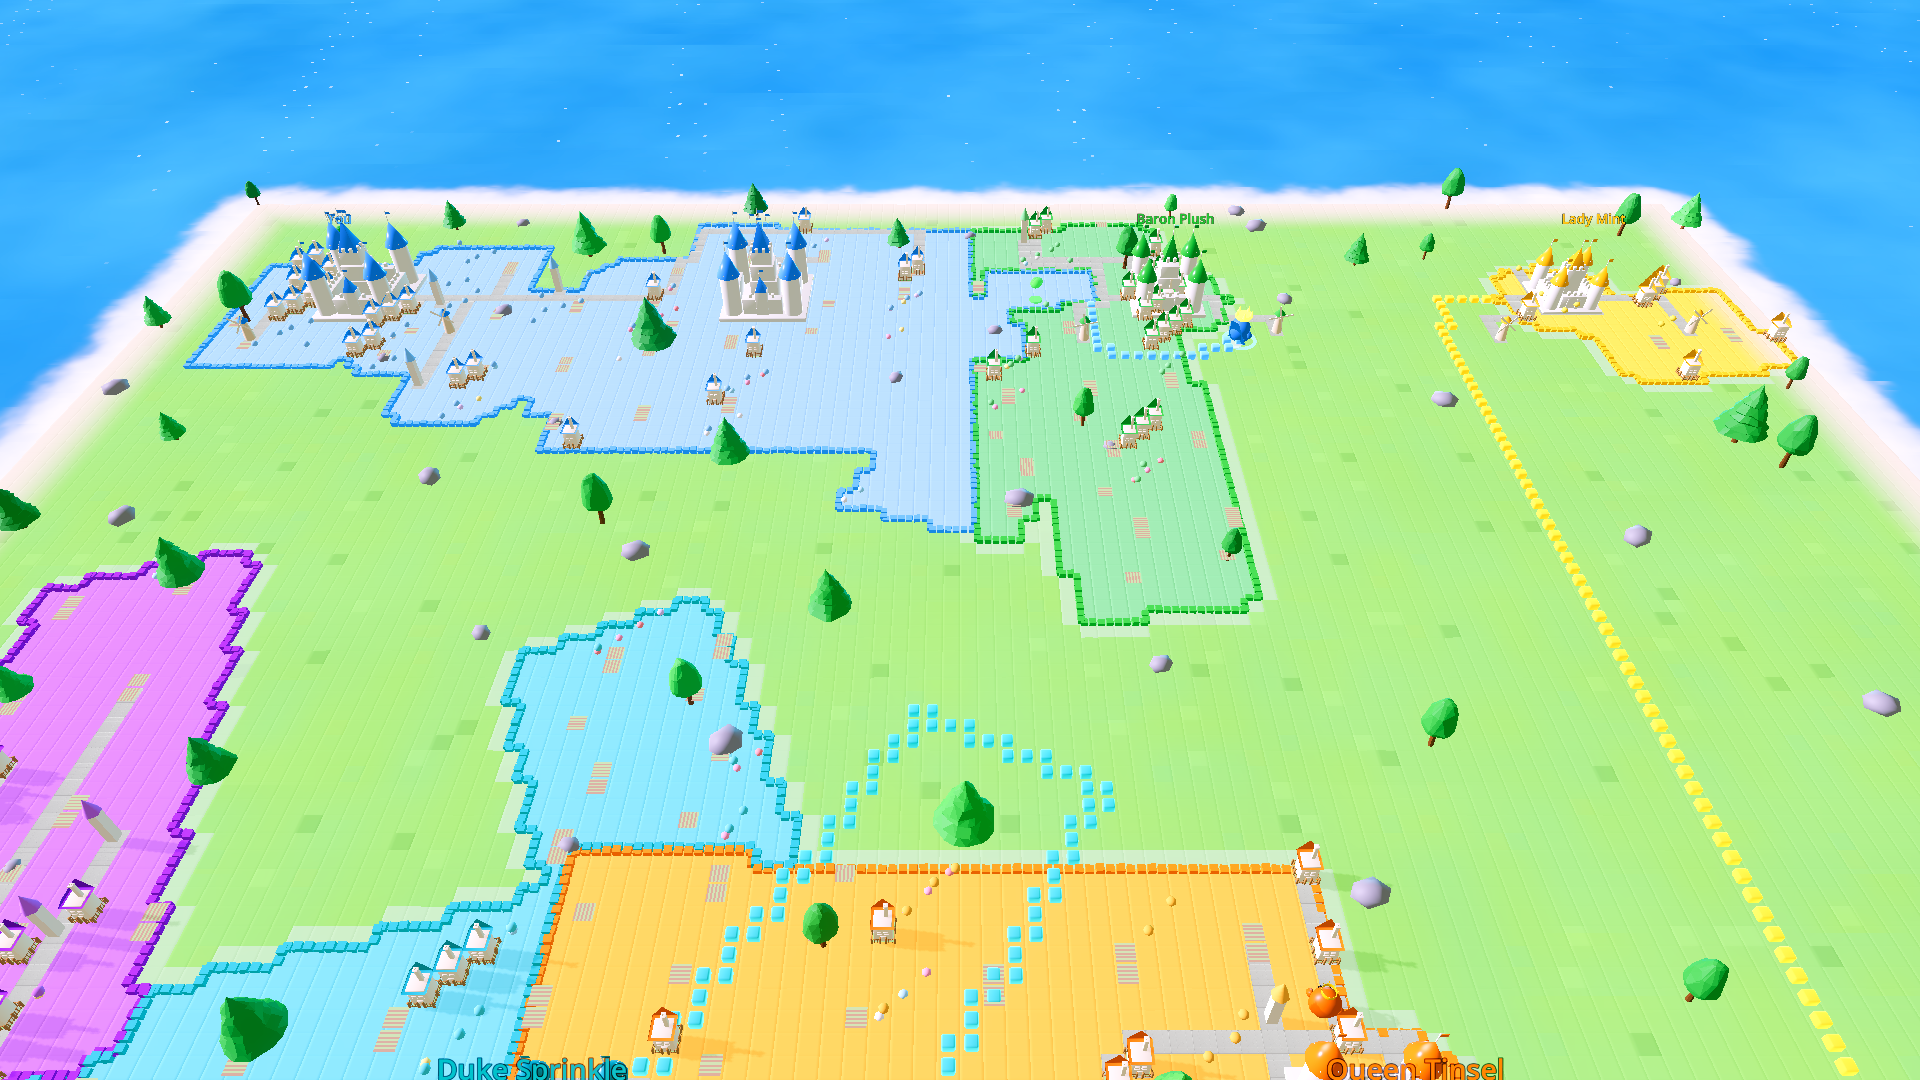
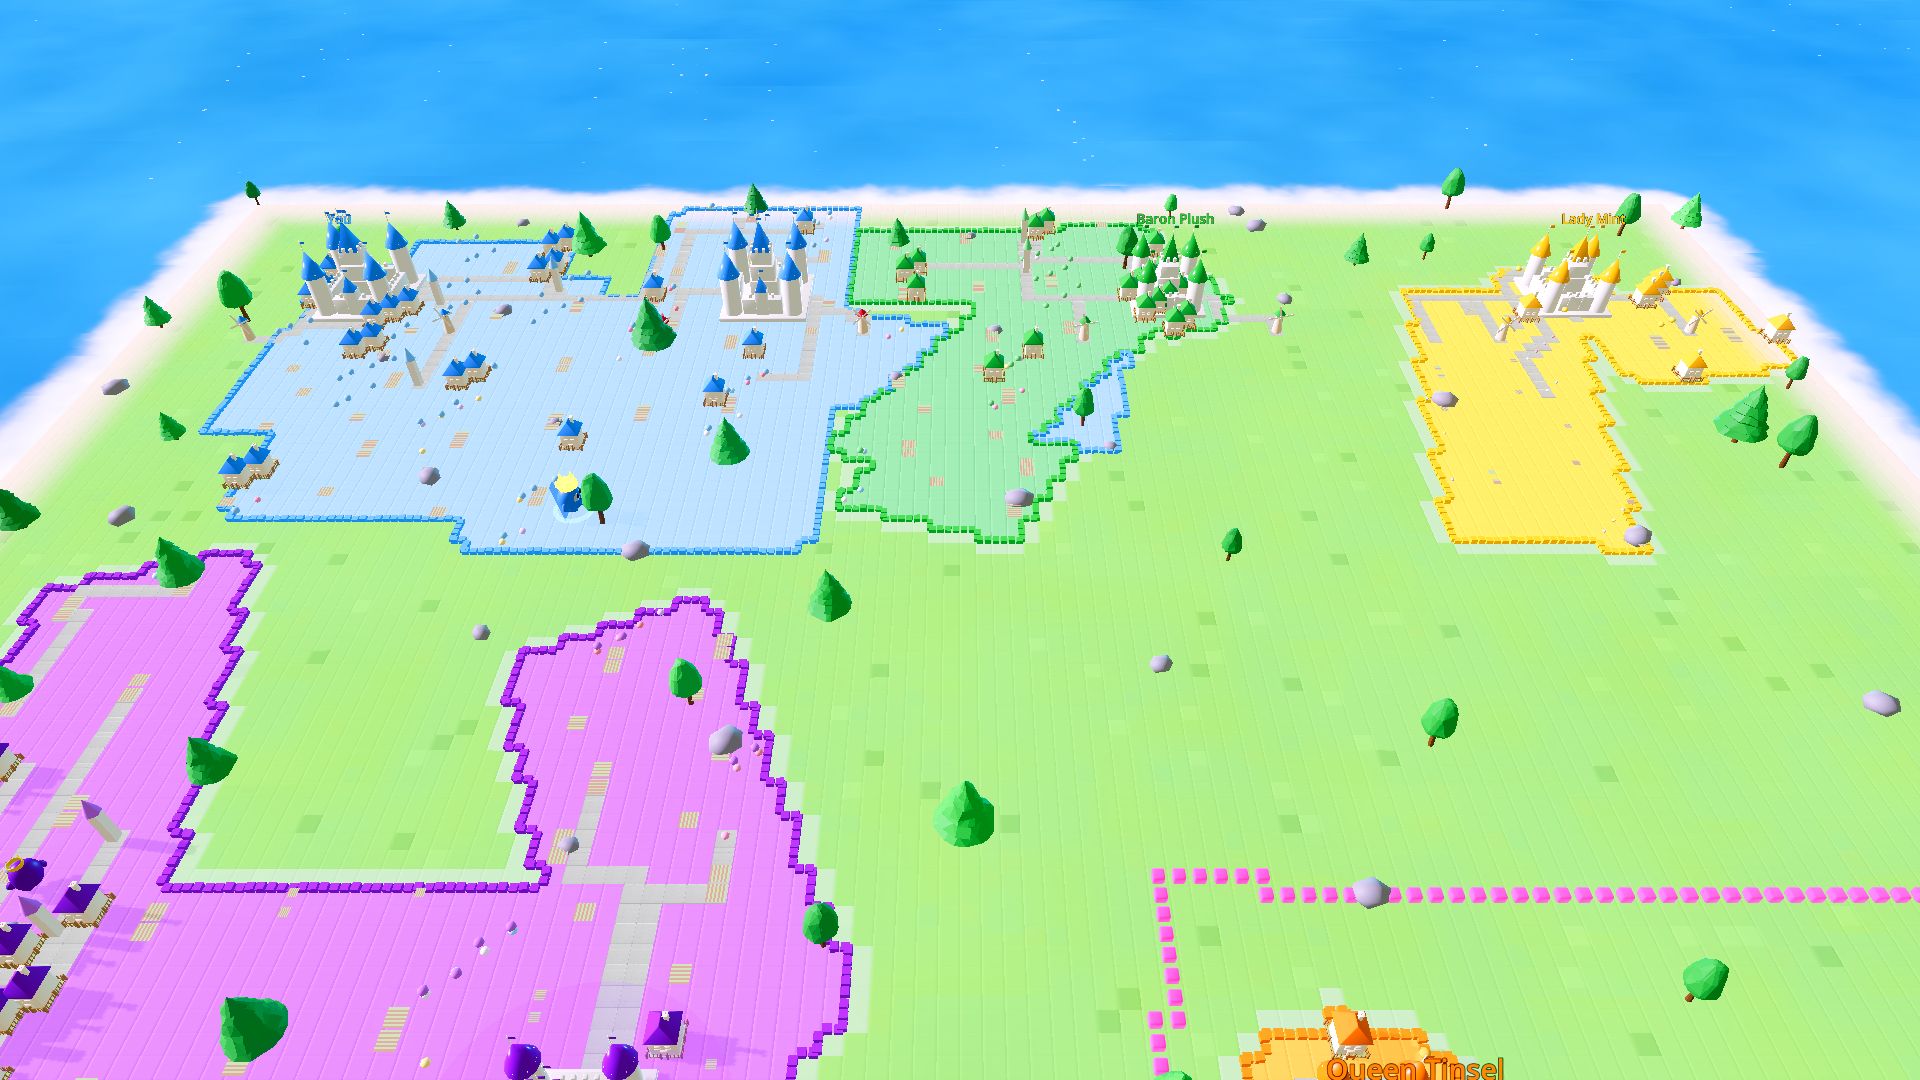
houses: 40% wider footprint, hip roof, bigger garden
Scaled house body 40% wider/longer (BW 0.252→0.353); wall height unchanged.

Replaced the triangular gable prism with a custom 4-sided hip roof built via
bmesh: all four faces slope down to a central ridge, making the slope clearly
visible from every camera angle — especially the isometric view where gable
roofs only showed two faces.

Expanded fence half-footprint from 0.315 to 0.441 to keep an 8.8 cm garden
gap between house wall and fence. Scaled chimney position, window frame
positions, and picket count proportionally. Ridge length set at 38% of roof
depth for a pronounced hip angle on the front/back faces.

No populace.gd changes needed: BH is unchanged so all Y offsets stay valid.

diff --git a/tools/gen_house.py b/tools/gen_house.py
@@ -1,26 +1,20 @@
 # gen_house.py — detailed toy house -> assets/models/house.glb
 #
-# Matches reference image: cream walls, steep kingdom-coloured gable, chimney
-# with crown + pots, embedded window frames, door with lintel, picket fence,
-# and a green lawn slab inside the fence.
+# House is 40 % wider/longer than the previous version; wall height unchanged.
+# Roof is now a 4-sided HIP roof (all four faces slope to a central ridge) so
+# the slope is visible from every camera angle — not just the gable ends.
 #
 # FOUR named submeshes (populace.gd loads each independently):
-#   "body"  — walls + embedded window frames/sills + door + chimney  (cream)
-#   "roof"  — gable prism with wide eave overhang                    (kingdom colour)
-#   "fence" — picket fence with gate opening on front                (warm wood brown)
-#   "lawn"  — flat green slab filling the fence interior             (bright garden green)
+#   "body"  — walls + embedded window frames/sills/headers + door + chimney (cream)
+#   "roof"  — 4-sided hip roof with wide eave overhang                      (kingdom colour)
+#   "fence" — picket fence with gate opening on front                       (warm wood brown)
+#   "lawn"  — flat green slab filling the fence interior                    (bright garden green)
 #
-# Z-fighting rules applied throughout:
-#   - Every protrusion's back face is placed 5 mm INSIDE the host surface (never flush).
-#   - Roof prism sits 12 mm LOWER than the mathematical body-top so its base
-#     is embedded inside the walls — eliminates the coplanar body-top / roof-bottom.
-#   - Chimney box starts 8 cm below the body top so it has no coplanar cap face.
-#
-# Godot instance Y offsets (relative to PROP_Y = 0.07):
-#   body  : PROP_Y + 0.380       (BH = 0.380 → body spans PROP_Y…PROP_Y+0.760)
-#   roof  : PROP_Y + 0.988       (body_top(0.760) + RHH(0.240) - embed(0.012))
-#   fence : PROP_Y + 0.125       (POST_H/2 = 0.125)
-#   lawn  : PROP_Y + 0.125       (same origin; lawn is near fence bottom)
+# Godot instance Y offsets (PROP_Y = 0.07, unchanged from previous version):
+#   body  : PROP_Y + 0.380   (BH = 0.380; body spans PROP_Y…PROP_Y+0.760)
+#   roof  : PROP_Y + 0.988   (body_top 0.760 + RHH 0.240 − embed 0.012)
+#   fence : PROP_Y + 0.125   (POST_H/2 = 0.125)
+#   lawn  : PROP_Y + 0.125   (same coordinate origin as fence)
 #
 # Run:  blender --background --python tools/gen_house.py
 import bpy, sys, os
@@ -31,33 +25,36 @@ import tbk_lib as T
 T.reset()
 
 # ── dimensions ────────────────────────────────────────────────────────────────
-BW = 0.252          # body half-footprint X/Y  (50.4 cm plan)
-BH = 0.380          # body half-height         (76 cm walls — tall like the image)
-RH = 0.480          # roof full height          (steep pitch)
-RHH = RH / 2        # = 0.240
-RW = BW + 0.082     # = 0.334  roof half-width (8.2 cm eave overhang per side)
-RD = BW + 0.086     # = 0.338  roof half-depth
+BW  = 0.353          # body half-footprint  (previous 0.252 × 1.40)
+BH  = 0.380          # body half-height — UNCHANGED
+RH  = 0.480          # hip roof full height
+RHH = RH / 2         # = 0.240
+# Eave overhang — hip roof base is wider than body on all four sides
+RW  = BW + 0.092     # = 0.445  half-width  (roof wider than body by 9.2 cm per side)
+RD  = BW + 0.096     # = 0.449  half-depth
+# Hip ridge runs along Y; length < RD → the front/back faces become sloping hips
+RIDGE_L = RD * 0.38  # = 0.171  (short ridge → steep hip, prominent slope on front/back)
 
-# Chimney — starts INSIDE the body so no face is flush with the body top
-CHX, CHY  = 0.096, 0.074
-CH_HW     = 0.052
-CHIM_BOT  = BH - 0.080          # 8 cm inside body top
-CHIM_TOP  = BH + 0.540          # pokes above roof peak
+# Chimney (scaled with BW)
+CHX, CHY  = 0.133, 0.103
+CH_HW     = 0.058
+CHIM_BOT  = BH - 0.080
+CHIM_TOP  = BH + 0.540
 CHIM_HH   = (CHIM_TOP - CHIM_BOT) * 0.5
 CHIM_CZ   = (CHIM_TOP + CHIM_BOT) * 0.5
 
 # Fence
-FHW    = 0.315      # fence half-footprint (63 cm) — 6.3 cm garden gap around house
-POST_H = 0.250      # fence post full height
-FHALF  = POST_H / 2 # = 0.125  (fence mesh centred at Blender Z=0)
-GATE_HW = 0.078     # half-width of gate opening on front face
+FHW    = 0.441       # fence half-footprint (garden gap 8.8 cm from house wall per side)
+POST_H = 0.250
+FHALF  = POST_H / 2  # = 0.125
+GATE_HW = 0.082
 
-# Lawn — fills interior of fence, near-flush with fence bottom
-LAWN_HW = FHW - 0.028    # = 0.287 — extends well beyond house walls (BW=0.252)
+# Lawn
+LAWN_HW = FHW - 0.028   # = 0.413
 LAWN_HH = 0.005
-LAWN_CZ = -(FHALF - LAWN_HH)  # -0.120 → bottom at Z=-0.125, top at Z=-0.115
+LAWN_CZ = -(FHALF - LAWN_HH)   # = -0.120
 
-# placeholder materials (Godot's material_override replaces these at runtime)
+# ── materials ─────────────────────────────────────────────────────────────────
 body_mat  = T.mat("body",  (0.93, 0.89, 0.81), rough=0.68)
 roof_mat  = T.mat("roof",  (0.22, 0.52, 0.22), rough=0.50)
 fence_mat = T.mat("fence", (0.52, 0.33, 0.14), rough=0.84)
@@ -68,50 +65,73 @@ roof_parts  = []
 fence_parts = []
 lawn_parts  = []
 
+# ─────────────────────────── HIP ROOF ─────────────────────────────────────────
+def hip_roof(rw, rd, rh, ridge_l):
+    """4-sided hip roof. Ridge runs along Y from -ridge_l to +ridge_l at top."""
+    import bmesh as _bm
+    mesh_data = bpy.data.meshes.new("hip_mesh")
+    bm = _bm.new()
+    hh = rh / 2
+    v = [
+        bm.verts.new((-rw, -rd, -hh)),  # 0 front-left base
+        bm.verts.new(( rw, -rd, -hh)),  # 1 front-right base
+        bm.verts.new(( rw,  rd, -hh)),  # 2 back-right base
+        bm.verts.new((-rw,  rd, -hh)),  # 3 back-left base
+        bm.verts.new((  0, -ridge_l, hh)),  # 4 front ridge end
+        bm.verts.new((  0,  ridge_l, hh)),  # 5 back ridge end
+    ]
+    bm.faces.new([v[0], v[1], v[4]])              # front hip  (triangle)
+    bm.faces.new([v[2], v[3], v[5]])              # back hip   (triangle)
+    bm.faces.new([v[3], v[0], v[4], v[5]])        # left slope (quad)
+    bm.faces.new([v[1], v[2], v[5], v[4]])        # right slope (quad)
+    bm.faces.new([v[3], v[2], v[1], v[0]])        # bottom (closed base)
+    bm.to_mesh(mesh_data)
+    bm.free()
+    mesh_data.update()
+    obj = bpy.data.objects.new("hip_roof", mesh_data)
+    bpy.context.collection.objects.link(obj)
+    bpy.context.view_layer.objects.active = obj
+    obj.select_set(True)
+    return obj
+
+
+roof_parts.append(hip_roof(RW, RD, RH, RIDGE_L))
+
 # ─────────────────────────── BODY ─────────────────────────────────────────────
 body_parts.append(T.box(BW, BW, BH, 0, 0, 0))
 
-# Window frames — back face embedded 5 mm inside the front wall at Y = -BW
-WFW, WFH, WFD = 0.058, 0.050, 0.016
-_wy = -(BW + WFD - 0.005)   # back face at -(BW - 0.005) = inside wall
-for wx in [-0.092, 0.092]:
-    body_parts.append(T.box(WFW, WFD, WFH, wx, _wy, 0.060))
+# Window frames — back face 5 mm INSIDE front wall (Y = -BW)
+WFW, WFH, WFD = 0.064, 0.052, 0.016
+_wy = -(BW + WFD - 0.005)
+for wx in [-0.128, 0.128]:
+    body_parts.append(T.box(WFW, WFD, WFH, wx, _wy, 0.062))
     # sill
-    body_parts.append(T.box(WFW + 0.014, WFD + 0.004, 0.008,
-                             wx, _wy - 0.002, 0.060 - WFH - 0.010))
+    body_parts.append(T.box(WFW + 0.016, WFD + 0.004, 0.009,
+                             wx, _wy - 0.002, 0.062 - WFH - 0.011))
     # header
-    body_parts.append(T.box(WFW + 0.010, WFD + 0.002, 0.007,
-                             wx, _wy - 0.001, 0.060 + WFH + 0.008))
+    body_parts.append(T.box(WFW + 0.012, WFD + 0.002, 0.008,
+                             wx, _wy - 0.001, 0.062 + WFH + 0.009))
 
 # Door — embedded 5 mm into front wall
-DW, DH, DD = 0.070, 0.118, 0.016
+DW, DH, DD = 0.084, 0.118, 0.016
 _dy = -(BW + DD - 0.005)
 body_parts.append(T.box(DW, DD, DH, 0, _dy, -BH + DH))
-# lintel above door
-body_parts.append(T.box(DW + 0.014, DD + 0.002, 0.010,
-                         0, _dy, -BH + DH * 2 + 0.010))
+body_parts.append(T.box(DW + 0.016, DD + 0.002, 0.011,
+                         0, _dy, -BH + DH * 2 + 0.011))
 
-# Chimney shaft (starts inside body — no coplanar cap face with body top)
+# Chimney (starts inside body)
 body_parts.append(T.box(CH_HW, CH_HW, CHIM_HH, CHX, CHY, CHIM_CZ))
-# Crown flange
-body_parts.append(T.box(CH_HW + 0.018, CH_HW + 0.018, 0.012,
-                         CHX, CHY, CHIM_TOP + 0.012))
-# Two pots
-body_parts.append(T.cyl(0.014, 0.052, CHX - 0.016, CHY - 0.010, CHIM_TOP + 0.044, 6))
-body_parts.append(T.cyl(0.014, 0.052, CHX + 0.014, CHY + 0.010, CHIM_TOP + 0.044, 6))
-
-# ─────────────────────────── ROOF ─────────────────────────────────────────────
-# Prism centred at Z=0 in roof-local coords.  populace.gd places this instance
-# 12 mm below the mathematical body-top so the prism base is embedded inside
-# the walls — eliminates the coplanar body-top / roof-bottom Z-fight.
-roof_parts.append(T.prism(RW * 2, RD * 2, RH, 0, 0, 0))
+body_parts.append(T.box(CH_HW + 0.020, CH_HW + 0.020, 0.013,
+                         CHX, CHY, CHIM_TOP + 0.013))
+body_parts.append(T.cyl(0.015, 0.054, CHX - 0.018, CHY - 0.012, CHIM_TOP + 0.046, 6))
+body_parts.append(T.cyl(0.015, 0.054, CHX + 0.016, CHY + 0.012, CHIM_TOP + 0.046, 6))
 
 # ─────────────────────────── FENCE ────────────────────────────────────────────
-PHW    = 0.026   # post half-width
-RAIL_T = 0.009   # rail half-thickness
-PIK_HW = 0.011   # picket half-width
-PIK_HH = 0.100   # picket half-height
-PIK_CZ = -0.012  # picket centre Z (near fence base)
+PHW    = 0.028
+RAIL_T = 0.010
+PIK_HW = 0.012
+PIK_HH = 0.100
+PIK_CZ = -0.012
 RAIL_ZL = -FHALF + 0.055
 RAIL_ZH =  FHALF - 0.054
 
@@ -120,9 +140,8 @@ def _post(x, y, hh=FHALF):
     fence_parts.append(T.box(PHW, PHW, hh, x, y, 0))
 
 
-def _sect_x(y, x0, x1, n=3):
-    cx = (x0 + x1) * 0.5
-    hl = (x1 - x0) * 0.5
+def _sect_x(y, x0, x1, n=4):
+    cx = (x0 + x1) * 0.5;  hl = (x1 - x0) * 0.5
     fence_parts.append(T.box(hl, RAIL_T, RAIL_T, cx, y, RAIL_ZL))
     fence_parts.append(T.box(hl, RAIL_T, RAIL_T, cx, y, RAIL_ZH))
     for k in range(n):
@@ -130,9 +149,8 @@ def _sect_x(y, x0, x1, n=3):
         fence_parts.append(T.box(PIK_HW, RAIL_T + 0.003, PIK_HH, fx, y, PIK_CZ))
 
 
-def _sect_y(x, y0, y1, n=3):
-    cy = (y0 + y1) * 0.5
-    hl = (y1 - y0) * 0.5
+def _sect_y(x, y0, y1, n=4):
+    cy = (y0 + y1) * 0.5;  hl = (y1 - y0) * 0.5
     fence_parts.append(T.box(RAIL_T, hl, RAIL_T, x, cy, RAIL_ZL))
     fence_parts.append(T.box(RAIL_T, hl, RAIL_T, x, cy, RAIL_ZH))
     for k in range(n):
@@ -140,32 +158,19 @@ def _sect_y(x, y0, y1, n=3):
         fence_parts.append(T.box(RAIL_T + 0.003, PIK_HW, PIK_HH, x, fy, PIK_CZ))
 
 
-# Corner posts
 for cx, cy in [(-FHW, -FHW), (FHW, -FHW), (-FHW, FHW), (FHW, FHW)]:
     _post(cx, cy)
-
-# Taller gate posts on front face (Y = -FHW)
 _post(-GATE_HW, -FHW, FHALF * 1.16)
 _post( GATE_HW, -FHW, FHALF * 1.16)
+_post(-FHW, 0); _post(FHW, 0); _post(0, FHW)
 
-# Mid posts on sides and back
-_post(-FHW, 0)
-_post( FHW, 0)
-_post(0,  FHW)
-
-# Fence panels — back, sides, and front with gate opening
-_sect_x( FHW, -FHW + PHW, -PHW, 3)
-_sect_x( FHW,  PHW,  FHW - PHW, 3)
-_sect_y(-FHW, -FHW + PHW, -PHW, 3)
-_sect_y(-FHW,  PHW,  FHW - PHW, 3)
-_sect_y( FHW, -FHW + PHW, -PHW, 3)
-_sect_y( FHW,  PHW,  FHW - PHW, 3)
-_sect_x(-FHW, -FHW + PHW, -GATE_HW - PHW, 2)
-_sect_x(-FHW,  GATE_HW + PHW,  FHW - PHW, 2)
+_sect_x( FHW, -FHW + PHW, -PHW, 4);    _sect_x(FHW,  PHW,  FHW - PHW, 4)
+_sect_y(-FHW, -FHW + PHW, -PHW, 4);    _sect_y(-FHW, PHW,  FHW - PHW, 4)
+_sect_y( FHW, -FHW + PHW, -PHW, 4);    _sect_y( FHW, PHW,  FHW - PHW, 4)
+_sect_x(-FHW, -FHW + PHW, -GATE_HW - PHW, 3)
+_sect_x(-FHW,  GATE_HW + PHW,  FHW - PHW,  3)
 
 # ─────────────────────────── LAWN ─────────────────────────────────────────────
-# Flat green slab in the fence coordinate system (Z=0 at fence centre height).
-# In Godot (instance at PROP_Y + FHALF): lawn top ≈ PROP_Y + 0.010 (just above ground).
 lawn_parts.append(T.box(LAWN_HW, LAWN_HW, LAWN_HH, 0, 0, LAWN_CZ))
 
 # ─────────────────────── ASSEMBLE & EXPORT ────────────────────────────────────
@@ -174,10 +179,10 @@ for o in roof_parts:  o.data.materials.append(roof_mat)
 for o in fence_parts: o.data.materials.append(fence_mat)
 for o in lawn_parts:  o.data.materials.append(lawn_mat)
 
-body_obj  = T.join(body_parts,  "body");   T.bevel(body_obj,  width=0.016, segments=2)
-roof_obj  = T.join(roof_parts,  "roof");   T.bevel(roof_obj,  width=0.020, segments=2)
+body_obj  = T.join(body_parts,  "body");   T.bevel(body_obj,  width=0.018, segments=2)
+roof_obj  = T.join(roof_parts,  "roof");   T.bevel(roof_obj,  width=0.022, segments=2)
 fence_obj = T.join(fence_parts, "fence");  T.bevel(fence_obj, width=0.006, segments=1)
-lawn_obj  = T.join(lawn_parts,  "lawn")    # no bevel on flat slab
+lawn_obj  = T.join(lawn_parts,  "lawn")
 
 T.export("house")
 print("HOUSE_DONE")